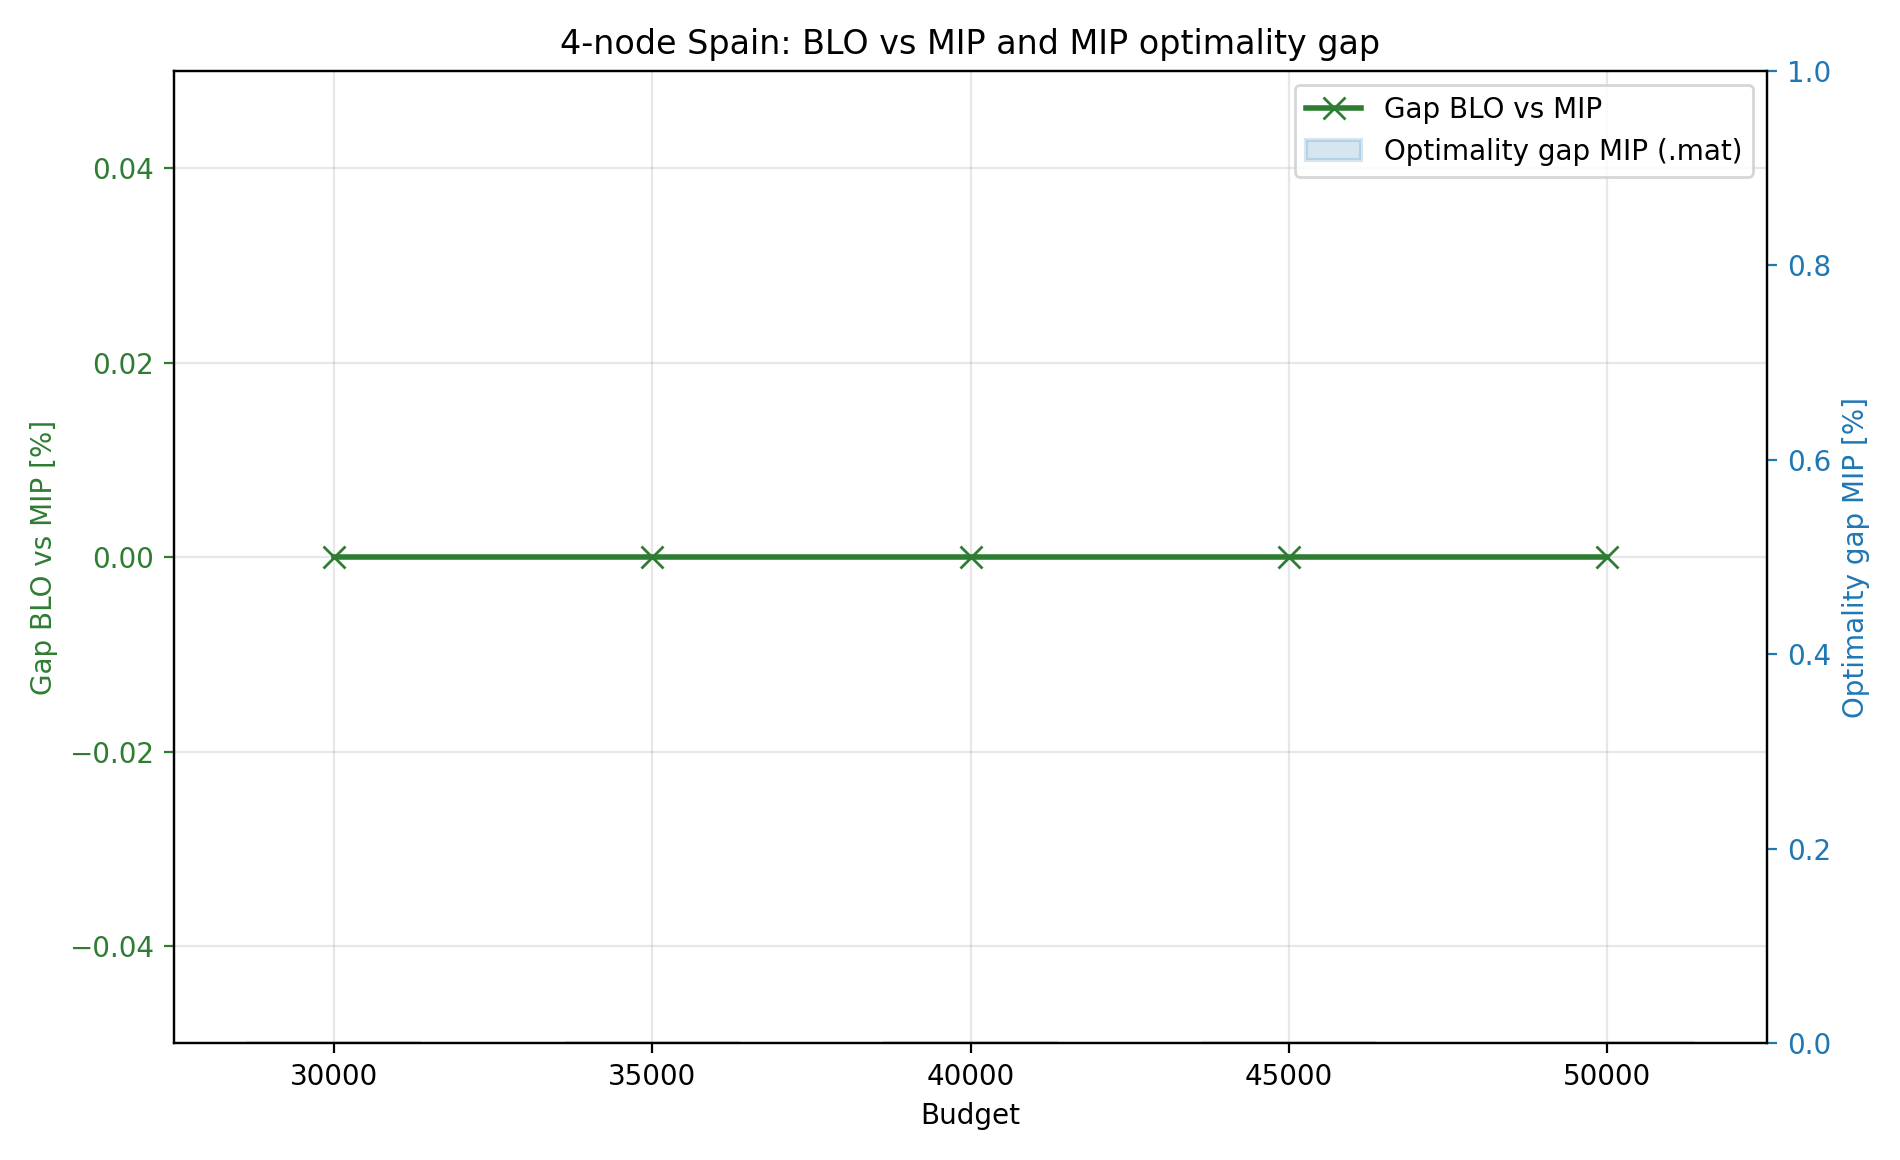
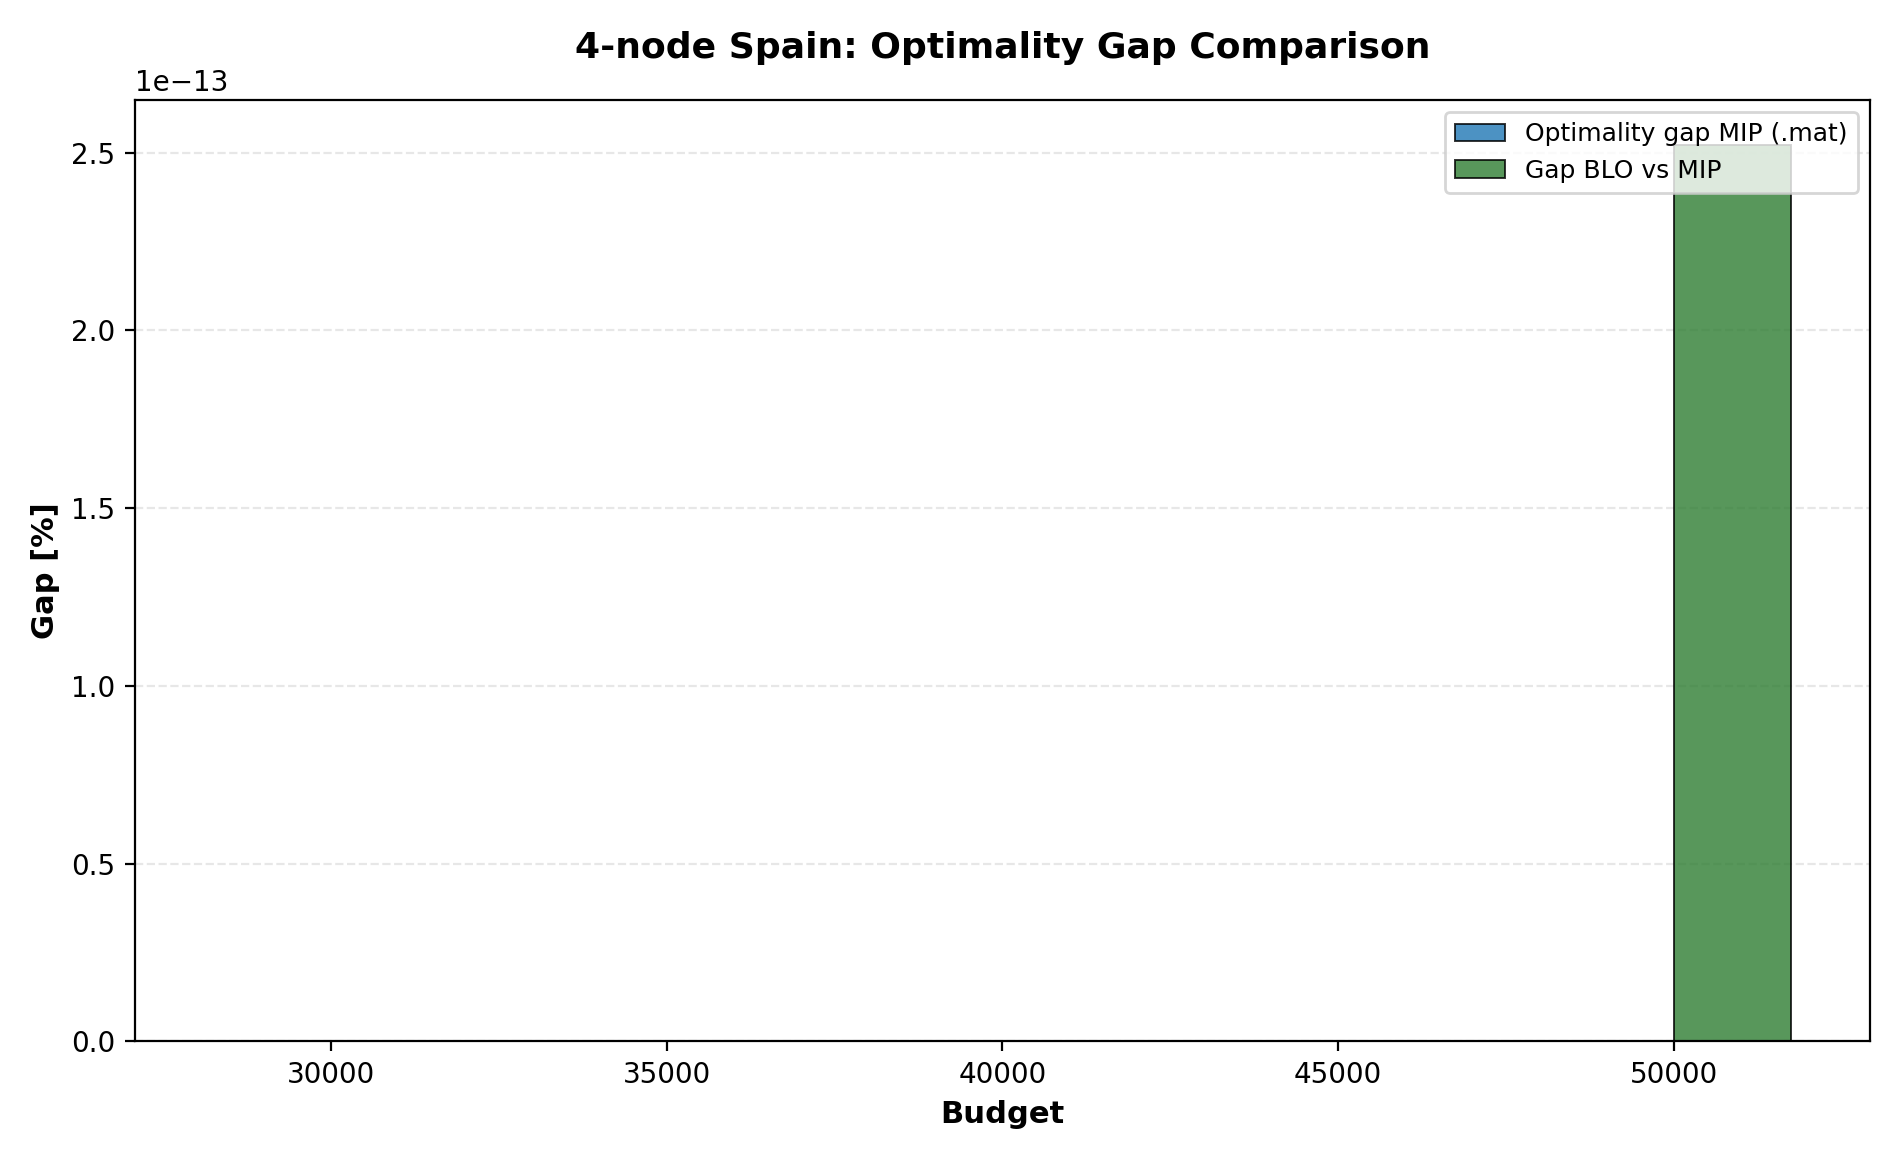
Convert optimality gap plots to grouped bar charts in 4, 6, and 8node_spain

Changed region(s): [[0.0311, 0.031, 0.9937, 0.9931], [0.0, 0.3724, 0.0311, 0.5897]]

diff --git a/4node_spain/compare_results.py b/4node_spain/compare_results.py
@@ -188,61 +188,46 @@ def compare_budget(budget, lam, alfa, mu_alfa, mu_beta, demand, prices, op_link_
 
 
 def plot_results(results, output_path):
-    budgets = [int(round(item["budget"])) for item in results]
-    blo_vs_mip_gap = [item["blo_vs_mip_gap"] for item in results]
-    mip_reported_gap = [item["mip_reported_gap"] for item in results]
+    budgets = np.array([int(round(item["budget"])) for item in results], dtype=float)
+    blo_vs_mip_gap = np.array([item["blo_vs_mip_gap"] for item in results], dtype=float)
+    mip_reported_gap = np.array([item["mip_reported_gap"] for item in results], dtype=float)
 
-    fig, ax_gap = plt.subplots(figsize=(9.5, 5.8))
-    ax_mip = ax_gap.twinx()
-
+    fig, ax = plt.subplots(figsize=(9.5, 5.8))
+    
     if len(budgets) > 1:
-        bar_width = 0.55 * min(np.diff(budgets))
+        width = 0.35 * min(np.diff(budgets))
     else:
-        bar_width = 5000
+        width = 5000
 
-    bars = ax_mip.bar(
-        budgets,
+    # Grouped bars side-by-side
+    bars_mip = ax.bar(
+        budgets - width / 2,
         mip_reported_gap,
-        width=bar_width,
+        width=width,
         color="#1f77b4",
-        alpha=0.18,
-        edgecolor="#1f77b4",
-        linewidth=1.5,
+        alpha=0.8,
+        edgecolor="black",
+        linewidth=0.7,
         label="Optimality gap MIP (.mat)",
-        zorder=1,
     )
-
-    (line,) = ax_gap.plot(
-        budgets,
+    bars_blo = ax.bar(
+        budgets + width / 2,
         blo_vs_mip_gap,
-        "x-",
-        linewidth=2,
-        markersize=8,
+        width=width,
         color="#2e7d32",
+        alpha=0.8,
+        edgecolor="black",
+        linewidth=0.7,
         label="Gap BLO vs MIP",
-        zorder=3,
     )
 
-    gap_min = min(blo_vs_mip_gap)
-    gap_max = max(blo_vs_mip_gap)
-    gap_span = max(gap_max - gap_min, 0.25)
-    gap_pad = 0.2 * gap_span
-
-    ax_gap.set_xlabel("Budget")
-    ax_gap.set_ylabel("Gap BLO vs MIP [%]", color="#2e7d32")
-    ax_gap.set_ylim(gap_min - gap_pad, gap_max + gap_pad)
-    ax_gap.tick_params(axis="y", colors="#2e7d32")
-    ax_gap.set_xticks(budgets)
-    ax_gap.grid(True, alpha=0.3)
-    ax_gap.set_axisbelow(True)
-
-    ax_mip.set_ylabel("Optimality gap MIP [%]", color="#1f77b4")
-    ax_mip.tick_params(axis="y", colors="#1f77b4")
-    mip_upper = max(mip_reported_gap) * 1.08 if mip_reported_gap else 1.0
-    ax_mip.set_ylim(0, mip_upper if mip_upper > 0 else 1.0)
-
-    ax_gap.set_title("4-node Spain: BLO vs MIP and MIP optimality gap")
-    ax_gap.legend([line, bars], [line.get_label(), bars.get_label()], loc="upper right")
+    ax.set_xlabel("Budget", fontsize=11, fontweight="bold")
+    ax.set_ylabel("Gap [%]", fontsize=11, fontweight="bold")
+    ax.set_title("4-node Spain: Optimality Gap Comparison", fontsize=13, fontweight="bold", pad=15)
+    ax.set_xticks(budgets)
+    ax.grid(True, which="major", axis="y", linestyle="--", alpha=0.3)
+    ax.set_axisbelow(True)
+    ax.legend(loc="upper right", fontsize=9)
 
     fig.tight_layout()
     output_path.parent.mkdir(parents=True, exist_ok=True)

diff --git a/6node_spain/compare_results.py b/6node_spain/compare_results.py
@@ -190,60 +190,46 @@ def compare_budget(budget, lam, alfa, mu_alfa, mu_beta, demand, prices, op_link_
 
 
 def plot_results(results, output_path):
-    budgets = [int(round(item["budget"])) for item in results]
-    blo_vs_mip_gap = [item["blo_vs_mip_gap"] for item in results]
-    mip_log_gap = [item["mip_log_gap"] for item in results]
+    budgets = np.array([int(round(item["budget"])) for item in results], dtype=float)
+    blo_vs_mip_gap = np.array([item["blo_vs_mip_gap"] for item in results], dtype=float)
+    mip_log_gap = np.array([item["mip_log_gap"] for item in results], dtype=float)
 
-    fig, ax_gap = plt.subplots(figsize=(9.5, 5.8))
-    ax_mip = ax_gap.twinx()
-
+    fig, ax = plt.subplots(figsize=(9.5, 5.8))
+    
     if len(budgets) > 1:
-        bar_width = 0.55 * min(np.diff(budgets))
+        width = 0.35 * min(np.diff(budgets))
     else:
-        bar_width = 5000
+        width = 5000
 
-    bars = ax_mip.bar(
-        budgets,
+    # Grouped bars side-by-side
+    bars_mip = ax.bar(
+        budgets - width / 2,
         mip_log_gap,
-        width=bar_width,
+        width=width,
         color="#1f77b4",
-        alpha=0.18,
-        edgecolor="#1f77b4",
-        linewidth=1.5,
+        alpha=0.8,
+        edgecolor="black",
+        linewidth=0.7,
         label="Optimality gap MIP (log)",
-        zorder=1,
     )
-
-    line, = ax_gap.plot(
-        budgets,
+    bars_blo = ax.bar(
+        budgets + width / 2,
         blo_vs_mip_gap,
-        "x-",
-        linewidth=2,
-        markersize=8,
+        width=width,
         color="#2e7d32",
+        alpha=0.8,
+        edgecolor="black",
+        linewidth=0.7,
         label="Gap BLO vs MIP",
-        zorder=3,
     )
 
-    gap_min = min(blo_vs_mip_gap)
-    gap_max = max(blo_vs_mip_gap)
-    gap_span = max(gap_max - gap_min, 0.25)
-    gap_pad = 0.2 * gap_span
-
-    ax_gap.set_xlabel("Budget")
-    ax_gap.set_ylabel("Gap BLO vs MIP [%]", color="#2e7d32")
-    ax_gap.set_ylim(gap_min - gap_pad, gap_max + gap_pad)
-    ax_gap.tick_params(axis="y", colors="#2e7d32")
-    ax_gap.set_xticks(budgets)
-    ax_gap.grid(True, alpha=0.3)
-    ax_gap.set_axisbelow(True)
-
-    ax_mip.set_ylabel("Optimality gap MIP [%]", color="#1f77b4")
-    ax_mip.tick_params(axis="y", colors="#1f77b4")
-    ax_mip.set_ylim(0, max(mip_log_gap) * 1.08)
-
-    ax_gap.set_title("6-node Spain: BLO vs MIP and MIP optimality gap")
-    ax_gap.legend([line, bars], [line.get_label(), bars.get_label()], loc="upper right")
+    ax.set_xlabel("Budget", fontsize=11, fontweight="bold")
+    ax.set_ylabel("Gap [%]", fontsize=11, fontweight="bold")
+    ax.set_title("6-node Spain: Optimality Gap Comparison", fontsize=13, fontweight="bold", pad=15)
+    ax.set_xticks(budgets)
+    ax.grid(True, which="major", axis="y", linestyle="--", alpha=0.3)
+    ax.set_axisbelow(True)
+    ax.legend(loc="upper right", fontsize=9)
 
     fig.tight_layout()
     output_path.parent.mkdir(parents=True, exist_ok=True)

diff --git a/8node_spain/compare_results.py b/8node_spain/compare_results.py
@@ -146,60 +146,46 @@ def compare_budget(budget, lam, alfa, mu_alfa, mu_beta, demand, prices, op_link_
 
 
 def plot_results(results, output_path):
-    budgets = [int(round(item["budget"])) for item in results]
-    blo_vs_mip_gap = [item["blo_vs_mip_gap"] for item in results]
-    mip_reported_gap = [item["mip_reported_gap"] for item in results]
+    budgets = np.array([int(round(item["budget"])) for item in results], dtype=float)
+    blo_vs_mip_gap = np.array([item["blo_vs_mip_gap"] for item in results], dtype=float)
+    mip_reported_gap = np.array([item["mip_reported_gap"] for item in results], dtype=float)
 
-    fig, ax_gap = plt.subplots(figsize=(9.5, 5.8))
-    ax_mip = ax_gap.twinx()
-
+    fig, ax = plt.subplots(figsize=(9.5, 5.8))
+    
     if len(budgets) > 1:
-        bar_width = 0.55 * min(np.diff(budgets))
+        width = 0.35 * min(np.diff(budgets))
     else:
-        bar_width = 5000
+        width = 5000
 
-    bars = ax_mip.bar(
-        budgets,
+    # Grouped bars side-by-side
+    bars_mip = ax.bar(
+        budgets - width / 2,
         mip_reported_gap,
-        width=bar_width,
+        width=width,
         color="#1f77b4",
-        alpha=0.18,
-        edgecolor="#1f77b4",
-        linewidth=1.5,
+        alpha=0.8,
+        edgecolor="black",
+        linewidth=0.7,
         label="Optimality gap MIP (.mat)",
-        zorder=1,
     )
-
-    line, = ax_gap.plot(
-        budgets,
+    bars_blo = ax.bar(
+        budgets + width / 2,
         blo_vs_mip_gap,
-        "x-",
-        linewidth=2,
-        markersize=8,
+        width=width,
         color="#2e7d32",
+        alpha=0.8,
+        edgecolor="black",
+        linewidth=0.7,
         label="Gap BLO vs MIP",
-        zorder=3,
     )
 
-    gap_min = min(blo_vs_mip_gap)
-    gap_max = max(blo_vs_mip_gap)
-    gap_span = max(gap_max - gap_min, 0.25)
-    gap_pad = 0.2 * gap_span
-
-    ax_gap.set_xlabel("Budget")
-    ax_gap.set_ylabel("Gap BLO vs MIP [%]", color="#2e7d32")
-    ax_gap.set_ylim(gap_min - gap_pad, gap_max + gap_pad)
-    ax_gap.tick_params(axis="y", colors="#2e7d32")
-    ax_gap.set_xticks(budgets)
-    ax_gap.grid(True, alpha=0.3)
-    ax_gap.set_axisbelow(True)
-
-    ax_mip.set_ylabel("Optimality gap MIP [%]", color="#1f77b4")
-    ax_mip.tick_params(axis="y", colors="#1f77b4")
-    ax_mip.set_ylim(0, max(mip_reported_gap) * 1.08)
-
-    ax_gap.set_title("8-node Spain: BLO vs MIP and MIP optimality gap")
-    ax_gap.legend([line, bars], [line.get_label(), bars.get_label()], loc="upper right")
+    ax.set_xlabel("Budget", fontsize=11, fontweight="bold")
+    ax.set_ylabel("Gap [%]", fontsize=11, fontweight="bold")
+    ax.set_title("8-node Spain: Optimality Gap Comparison", fontsize=13, fontweight="bold", pad=15)
+    ax.set_xticks(budgets)
+    ax.grid(True, which="major", axis="y", linestyle="--", alpha=0.3)
+    ax.set_axisbelow(True)
+    ax.legend(loc="upper right", fontsize=9)
 
     fig.tight_layout()
     output_path.parent.mkdir(parents=True, exist_ok=True)